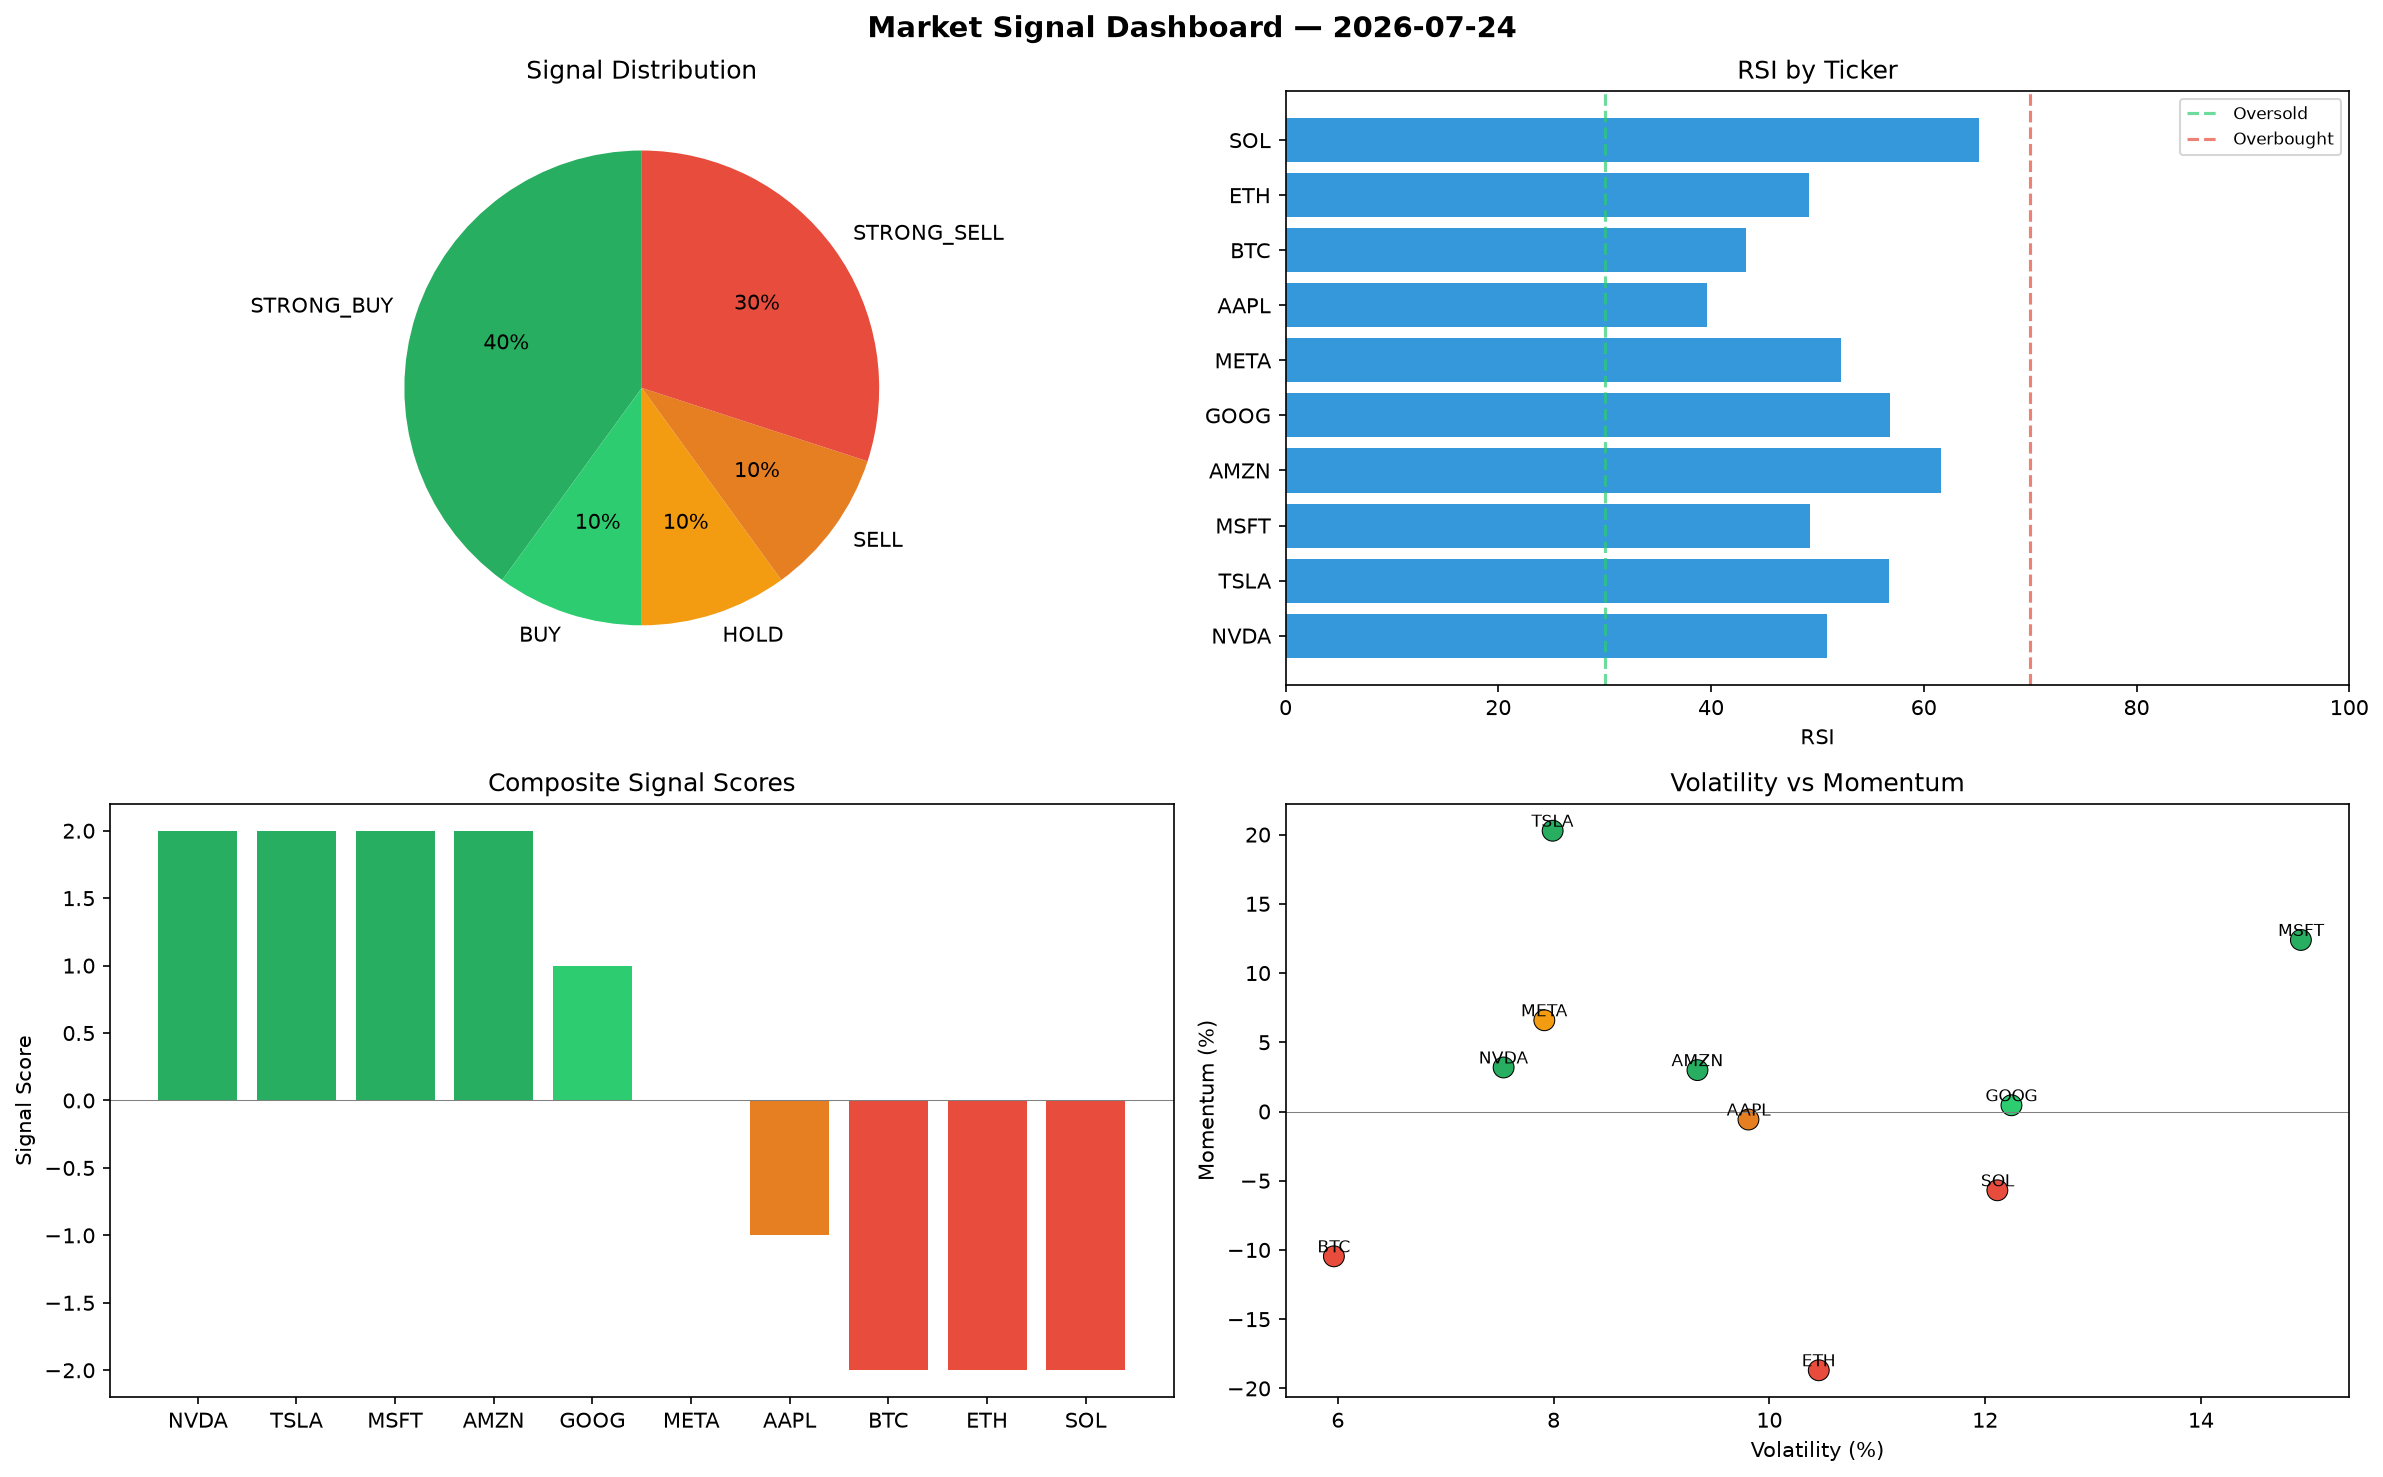
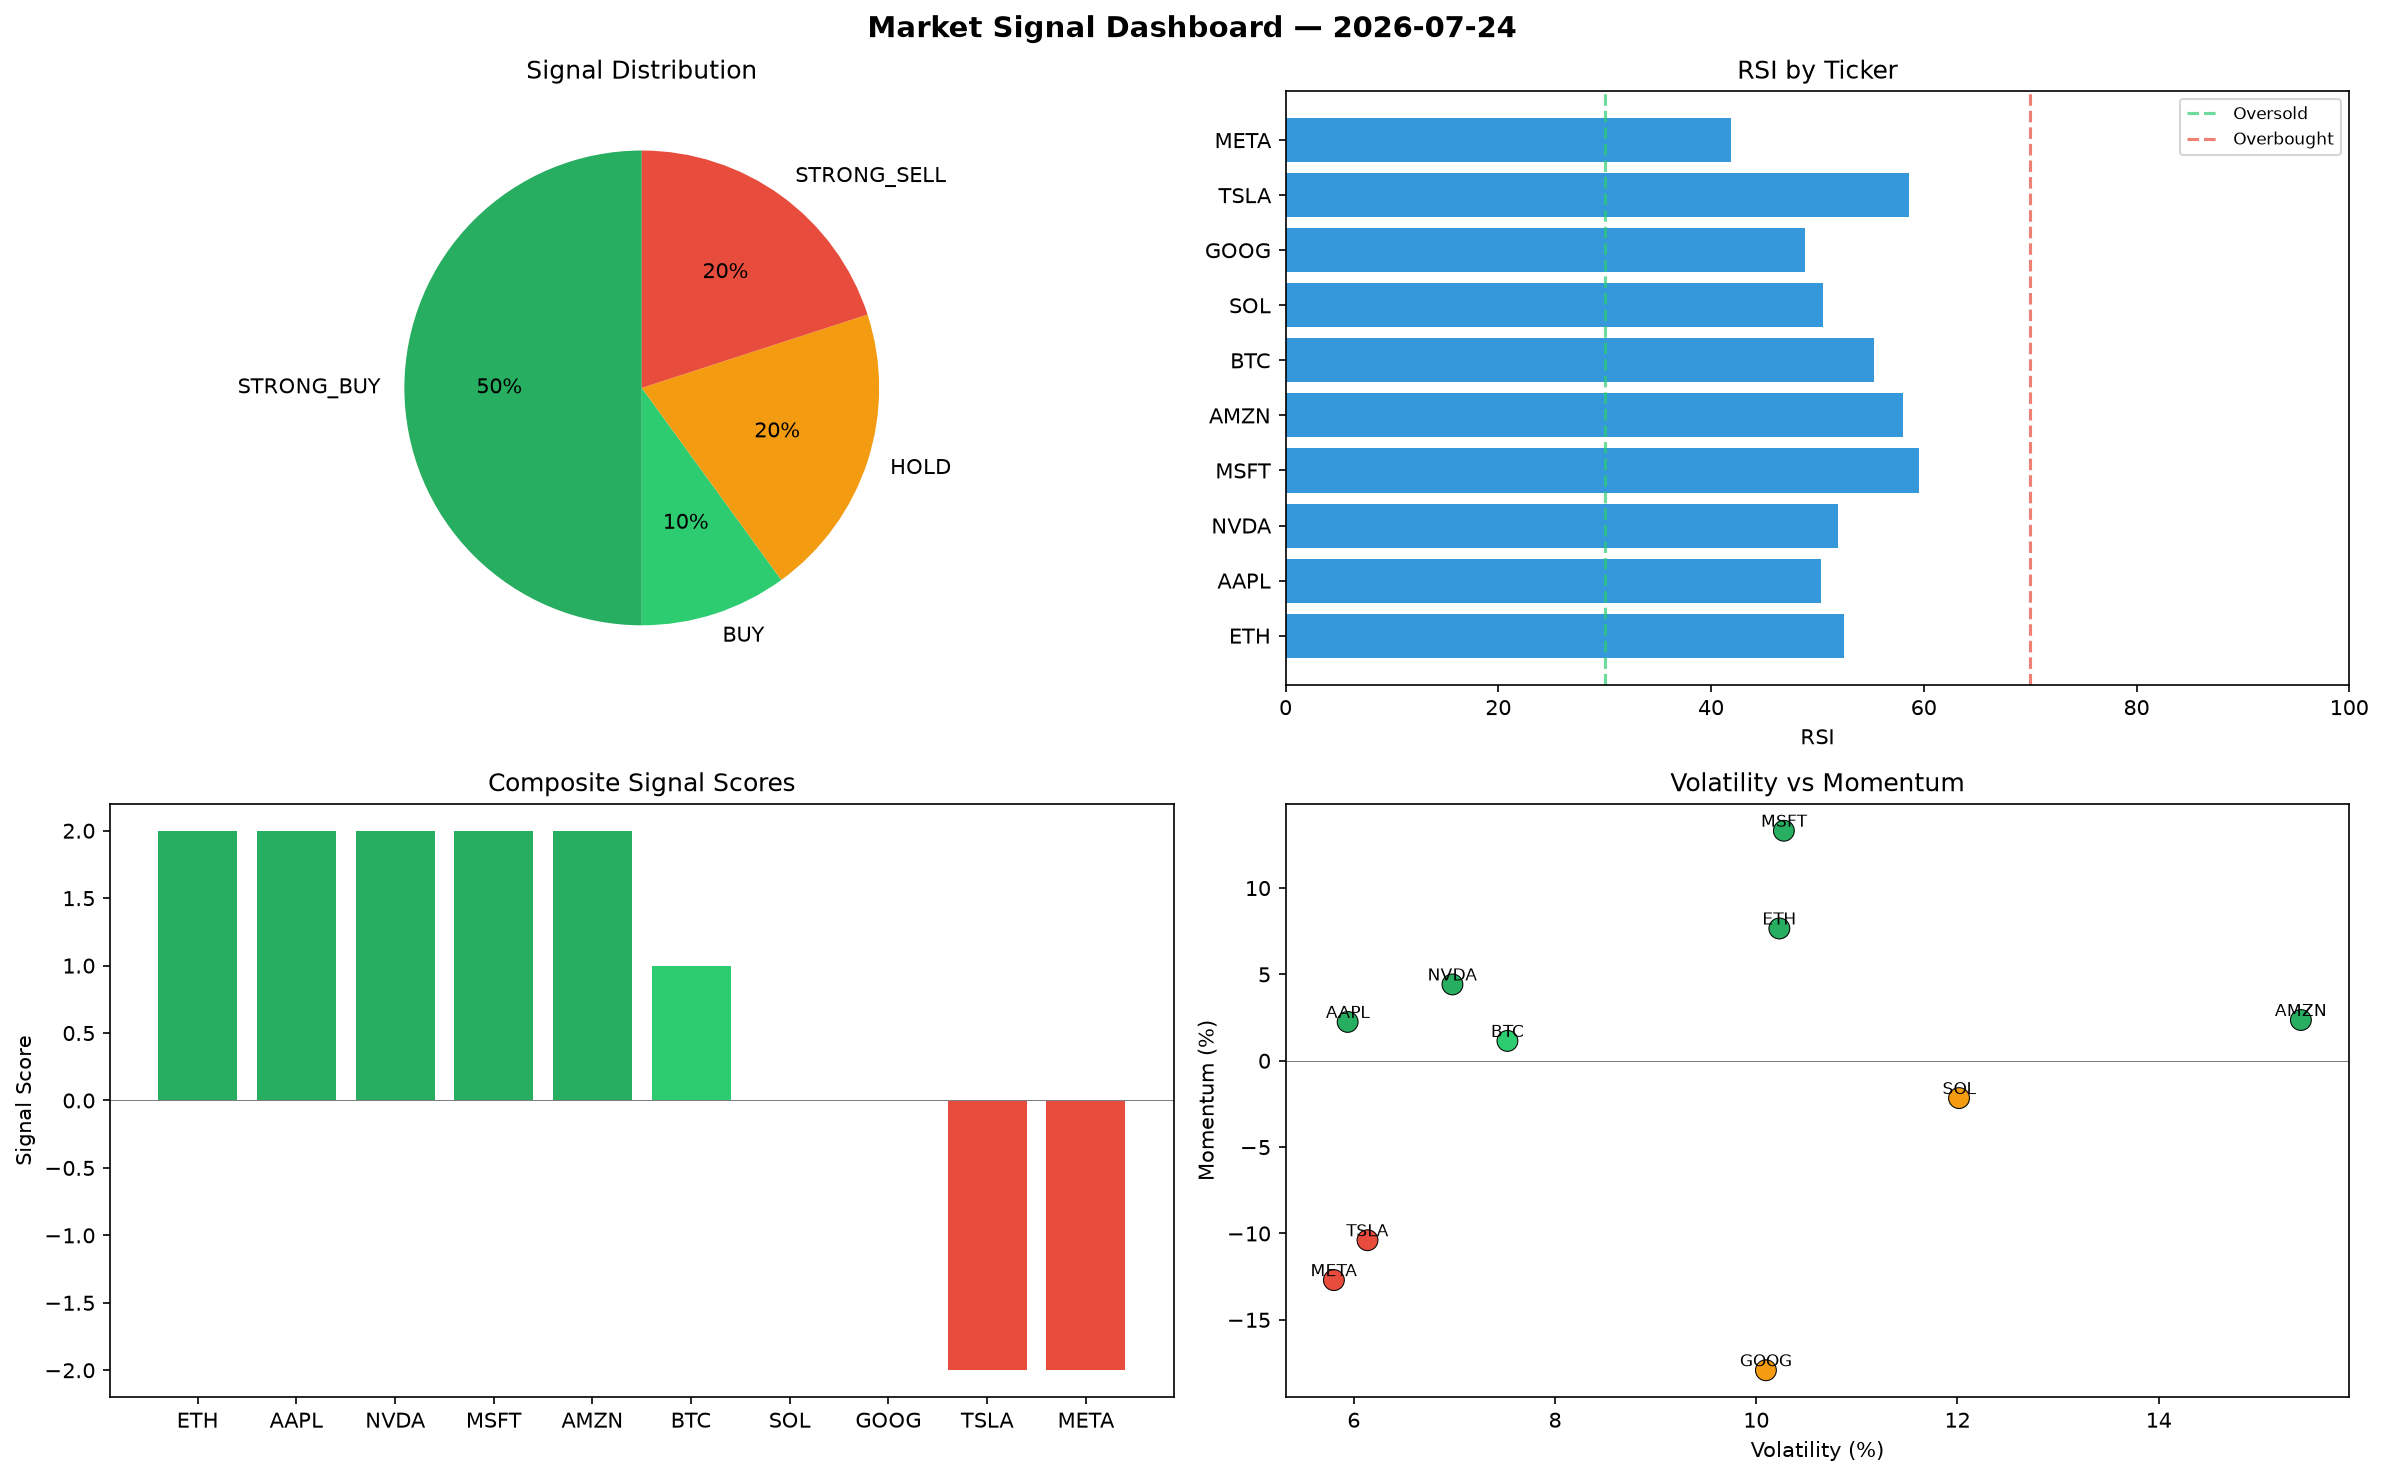
automated-bots: market signals 2026-07-24T10:31

diff --git a/logs/2026-07-24.md b/logs/2026-07-24.md
@@ -1,6 +1,6 @@
 # Market Signal Report — 2026-07-24
 
-**Run ID:** `7b5552699c` | **Buy:** 5 | **Sell:** 4 | **Hold:** 1
+**Run ID:** `2b2450d343` | **Buy:** 6 | **Sell:** 2 | **Hold:** 2
 
 ![Dashboard](2026-07-24_dashboard.png)
 
@@ -8,28 +8,28 @@
 
 | Ticker | Price | Signal | Score | RSI | Momentum | Confidence |
 |--------|-------|--------|-------|-----|----------|------------|
-| NVDA | $896.35 | **STRONG_BUY** | 2 | 50.87 | 0.0318 | 0.5 |
-| TSLA | $3210.58 | **STRONG_BUY** | 2 | 56.76 | 0.2028 | 0.5 |
-| MSFT | $511.84 | **STRONG_BUY** | 2 | 49.28 | 0.1239 | 0.5 |
-| AMZN | $3320.76 | **STRONG_BUY** | 2 | 61.64 | 0.0299 | 0.5 |
-| GOOG | $3133.01 | **BUY** | 1 | 56.86 | 0.0045 | 0.25 |
-| META | $3803.38 | **HOLD** | 0 | 52.25 | 0.0659 | 0.0 |
-| AAPL | $2319.13 | **SELL** | -1 | 39.61 | -0.0058 | 0.25 |
-| BTC | $3917.27 | **STRONG_SELL** | -2 | 43.27 | -0.1046 | 0.5 |
-| ETH | $4078.27 | **STRONG_SELL** | -2 | 49.23 | -0.1869 | 0.5 |
-| SOL | $676.92 | **STRONG_SELL** | -2 | 65.16 | -0.0569 | 0.5 |
+| ETH | $1199.36 | **STRONG_BUY** | 2 | 52.49 | 0.0766 | 0.5 |
+| AAPL | $764.87 | **STRONG_BUY** | 2 | 50.37 | 0.0225 | 0.5 |
+| NVDA | $2331.33 | **STRONG_BUY** | 2 | 51.89 | 0.0442 | 0.5 |
+| MSFT | $2464.48 | **STRONG_BUY** | 2 | 59.53 | 0.1332 | 0.5 |
+| AMZN | $257.8 | **STRONG_BUY** | 2 | 58.01 | 0.0236 | 0.5 |
+| BTC | $940.08 | **BUY** | 1 | 55.28 | 0.0115 | 0.25 |
+| SOL | $1937.34 | **HOLD** | 0 | 50.52 | -0.0216 | 0.0 |
+| GOOG | $3114.41 | **HOLD** | 0 | 48.88 | -0.1792 | 0.0 |
+| TSLA | $860.9 | **STRONG_SELL** | -2 | 58.62 | -0.1039 | 0.5 |
+| META | $153.84 | **STRONG_SELL** | -2 | 41.85 | -0.127 | 0.5 |
 
 ## Delta vs Yesterday
 
 | Ticker | Today | Yesterday | Price Change | Signal Changed |
 |--------|-------|-----------|-------------|----------------|
-| NVDA | STRONG_BUY | STRONG_SELL | 📉 -75.69% | ⚠ YES |
-| TSLA | STRONG_BUY | HOLD | 📉 -15.09% | ⚠ YES |
-| MSFT | STRONG_BUY | STRONG_BUY | 📈 5.95% | — |
-| AMZN | STRONG_BUY | STRONG_BUY | 📈 80.36% | — |
-| GOOG | BUY | HOLD | 📈 667.44% | ⚠ YES |
-| META | HOLD | HOLD | 📈 49.55% | — |
-| AAPL | SELL | STRONG_SELL | 📉 -44.62% | ⚠ YES |
-| BTC | STRONG_SELL | STRONG_BUY | 📈 12.4% | ⚠ YES |
-| ETH | STRONG_SELL | SELL | 📈 400.83% | ⚠ YES |
-| SOL | STRONG_SELL | STRONG_SELL | 📉 -83.23% | — |
+| ETH | STRONG_BUY | SELL | 📈 47.29% | ⚠ YES |
+| AAPL | STRONG_BUY | STRONG_SELL | 📉 -81.74% | ⚠ YES |
+| NVDA | STRONG_BUY | STRONG_SELL | 📉 -36.78% | ⚠ YES |
+| MSFT | STRONG_BUY | STRONG_BUY | 📈 410.13% | — |
+| AMZN | STRONG_BUY | STRONG_BUY | 📉 -86.0% | — |
+| BTC | BUY | STRONG_BUY | 📉 -73.03% | ⚠ YES |
+| SOL | HOLD | STRONG_SELL | 📉 -51.99% | ⚠ YES |
+| GOOG | HOLD | HOLD | 📈 662.89% | — |
+| TSLA | STRONG_SELL | HOLD | 📉 -77.23% | ⚠ YES |
+| META | STRONG_SELL | HOLD | 📉 -93.95% | ⚠ YES |
